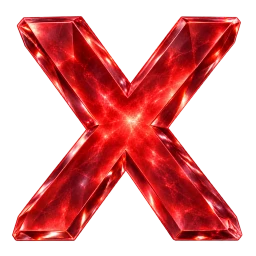
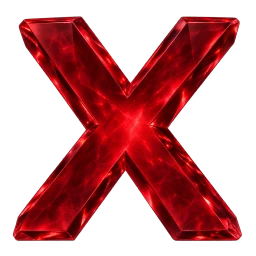
Glow on the vote pop.
Sync the updated x-on art and the new x-on-glow from pitax-factions.
A new vote pops in with the glow, which fades to the plain lit X.

Claude-Session: https://claude.ai/code/session_01Wr4LugVRVPXwuq9k7yk7qr

diff --git a/src/stage/StageLayer.ts b/src/stage/StageLayer.ts
@@ -1,4 +1,4 @@
-import { BUZZER_SETTING, MODULE_ID, X_OFF, X_ON } from '../constants';
+import { BUZZER_SETTING, MODULE_ID, X_OFF, X_ON, X_ON_GLOW } from '../constants';
 import { contestant, portraitPath } from '../roster';
 import { allVotesIn, newVotes, SEAT_COUNT, type TalentState } from '../state';
 import { LAYOUT, STAGE, walkPose, xCenters } from './pose';
@@ -10,12 +10,14 @@ const ENTRANCE_MS = 2600;
 const EXIT_MS = 1400;
 const ELIMINATED_MS = 2200;
 const POP_MS = 380;
+const GLOW_MS = 900;
 const DIM = 0.55;
 const REFLECTION = 0.18;
 
 interface XMark {
   root: PIXI.Container;
-  on: PIXI.Sprite;
+  lit: PIXI.Container;
+  glow: PIXI.Sprite;
 }
 
 /**
@@ -81,20 +83,25 @@ export class StageLayer {
     const buzzer = buzzerSrc();
     if (buzzer) void foundry.audio.AudioHelper.preloadSound(buzzer).catch(() => {});
 
-    const [off, on] = await Promise.all([loadTexture(X_OFF), loadTexture(X_ON)]);
+    const [off, on, glow] = await Promise.all([loadTexture(X_OFF), loadTexture(X_ON), loadTexture(X_ON_GLOW)]);
     const size = LAYOUT.xRow.size * this.#k;
     this.#marks = xCenters(SEAT_COUNT).map((cx) => {
       const root = new PIXI.Container();
       root.position.set(this.#x(cx), this.#y(LAYOUT.xRow.y));
       const offSprite = new PIXI.Sprite(off as PIXI.Texture);
       const onSprite = new PIXI.Sprite(on as PIXI.Texture);
-      for (const s of [offSprite, onSprite]) {
+      const glowSprite = new PIXI.Sprite(glow as PIXI.Texture);
+      for (const s of [offSprite, onSprite, glowSprite]) {
         s.anchor.set(0.5);
         s.width = s.height = size;
       }
-      onSprite.alpha = 0;
-      root.addChild(offSprite, onSprite);
-      return { root, on: onSprite };
+      glowSprite.alpha = 0;
+      // Clearing a vote mid-pop hides the fading glow along with the X.
+      const lit = new PIXI.Container();
+      lit.alpha = 0;
+      lit.addChild(onSprite, glowSprite);
+      root.addChild(offSprite, lit);
+      return { root, lit, glow: glowSprite };
     });
 
     this.#root.addChild(this.#dim, this.#figure, ...this.#marks.map((m) => m.root));
@@ -106,13 +113,13 @@ export class StageLayer {
     const out = allVotesIn(state);
     this.#pose(state.contestantId && !out ? 1 : 0);
     this.#dim.alpha = out ? DIM : 0;
-    state.votes.forEach((on, i) => (this.#marks[i].on.alpha = on ? 1 : 0));
+    state.votes.forEach((on, i) => (this.#marks[i].lit.alpha = on ? 1 : 0));
   }
 
   async #transition(before: TalentState, after: TalentState): Promise<void> {
     for (const seat of newVotes(before, after)) this.#pop(seat);
     after.votes.forEach((on, i) => {
-      if (!on) this.#marks[i].on.alpha = 0;
+      if (!on) this.#marks[i].lit.alpha = 0;
     });
 
     const arrived = after.contestantId && after.entrance !== before.entrance;
@@ -186,7 +193,8 @@ export class StageLayer {
 
   #pop(seat: number): void {
     const mark = this.#marks[seat];
-    mark.on.alpha = 1;
+    mark.lit.alpha = 1;
+    mark.glow.alpha = 1;
     mark.root.scale.set(1.7);
     void CanvasAnimation.animate(
       [
@@ -195,6 +203,10 @@ export class StageLayer {
       ],
       { name: this.#animName(`pop${seat}`), duration: POP_MS, easing: 'easeOutCircle' },
     );
+    void CanvasAnimation.animate([{ parent: mark.glow, attribute: 'alpha', to: 0 }], {
+      name: this.#animName(`glow${seat}`),
+      duration: GLOW_MS,
+    });
     playBuzzer();
   }
 

diff --git a/scripts/sync-pitax.ts b/scripts/sync-pitax.ts
@@ -29,7 +29,7 @@ for (const dir of [talentOut, thumbOut, audioOut]) mkdirSync(dir, { recursive: t
 
 for (const file of ['pitax-stage-tall.webp', 'poster.webp']) copyFileSync(join(art, 'talent', file), join(talentOut, file));
 // The X's render at ~80px, so the 800–1250px originals only cost download time.
-for (const file of ['x-off.webp', 'x-on.webp']) {
+for (const file of ['x-off.webp', 'x-on.webp', 'x-on-glow.webp']) {
   await sharp(join(art, 'talent', file)).resize(256, 256).webp({ quality: 90 }).toFile(join(talentOut, file));
 }
 
@@ -56,4 +56,4 @@ writeFileSync(
   `// Generated by scripts/sync-pitax.ts.\nexport const portraitNames = new Set<string>(${JSON.stringify(names, null, 2)});\n`,
 );
 
-console.log(`✓ synced ${DATA_FILES.length} data files, ${portraits.length} portraits, 4 talent images, the buzzer from ${SOURCE}`);
+console.log(`✓ synced ${DATA_FILES.length} data files, ${portraits.length} portraits, 5 talent images, the buzzer from ${SOURCE}`);

diff --git a/src/constants.ts b/src/constants.ts
@@ -10,4 +10,5 @@ export const BUZZER_SETTING = 'buzzer';
 export const ASSETS = `modules/${MODULE_ID}/assets`;
 export const X_OFF = `${ASSETS}/talent/x-off.webp`;
 export const X_ON = `${ASSETS}/talent/x-on.webp`;
+export const X_ON_GLOW = `${ASSETS}/talent/x-on-glow.webp`;
 export const DEFAULT_BUZZER = `${ASSETS}/audio/buzzer.ogg`;
